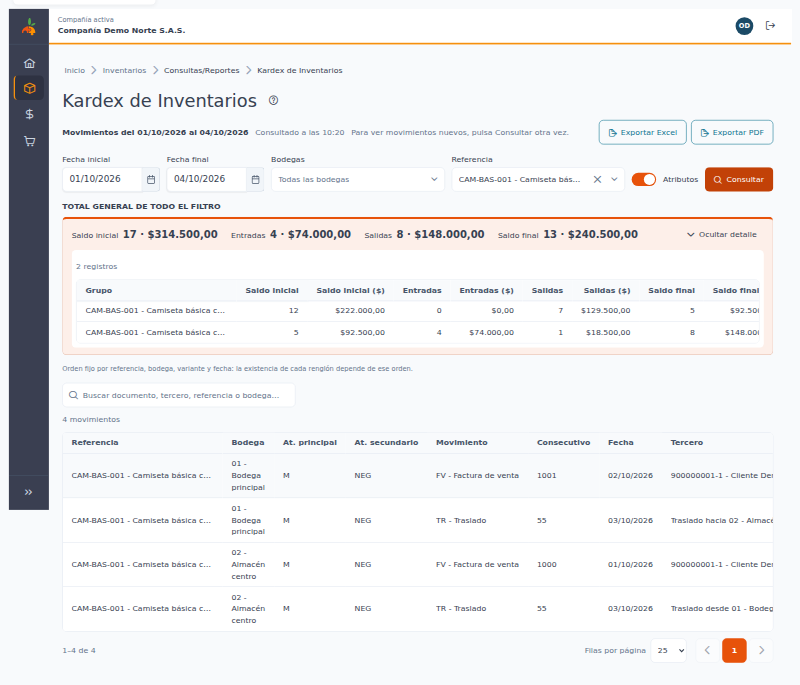
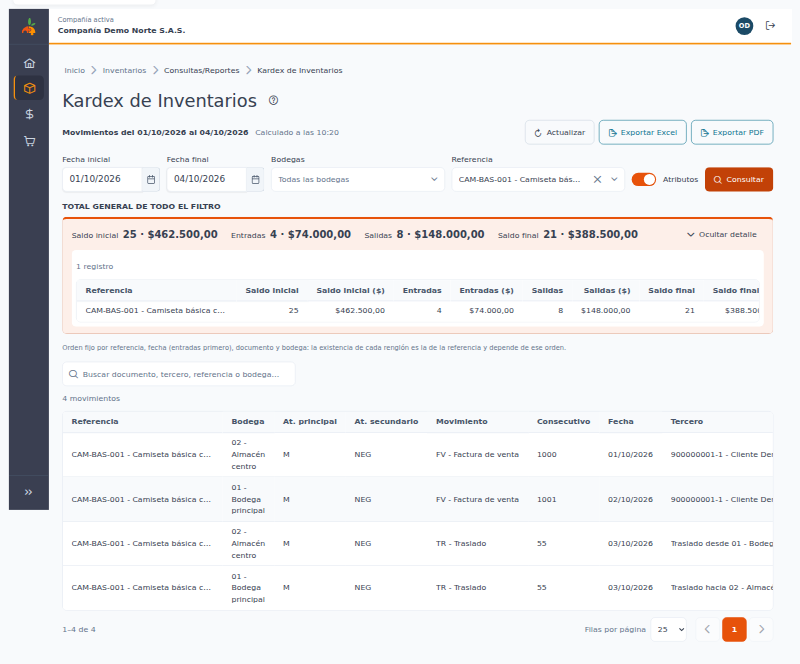
docs(inventarios): manual del Kardex reescrito para la función V2 (cálculo en segundo plano, saldo por referencia) con capturas nuevas
Claude-Session: https://claude.ai/code/session_017N4HDywEAusCCWDS58g4eW

diff --git a/v2026/inventarios/consultas/kardex-inventarios.md b/v2026/inventarios/consultas/kardex-inventarios.md
@@ -16,9 +16,11 @@
 
 ## 📋 Descripción
 
-Esta consulta muestra **cada entrada y cada salida de inventario** de un **periodo**, con el **saldo inicial**, la **existencia** que queda después de cada movimiento (en cantidad y en pesos) y los totales. Es de **solo lectura**: no crea ni cambia información. Puede **consultar, buscar, exportar a Excel y exportar a PDF**.
+Esta consulta muestra **cada entrada y cada salida de inventario** de un **periodo**, con la **existencia** que queda después de cada movimiento (en cantidad y en pesos), el **costo promedio** y los totales. Es de **solo lectura**: no crea ni cambia información. Puede **consultar, buscar, exportar a Excel y exportar a PDF**.
 
-El saldo se lleva **por referencia y bodega** (y por variante cuando consulta con atributos): cada bodega tiene su propia existencia, aunque consulte varias a la vez.
+La existencia se lleva **por referencia**: suma **todas las bodegas y todas las variantes** (talla, color…) de esa referencia. Aunque consulte una sola bodega, la existencia que ve en cada renglón es la de la referencia completa (ver *Leer el resultado*).
+
+En compañías con mucha información el kardex se **calcula en segundo plano** y se le avisa por la campana cuando está listo (ver *Cálculo en segundo plano*).
 
 > 📘 La paginación y la ayuda funcionan como en las demás tablas: ver [Manejo general de la información](../../Generales/manejo-general-informacion.md). A diferencia de otras tablas, aquí **no se puede ordenar por columna** (ver *Leer el resultado*).
 
@@ -50,7 +52,8 @@ Al entrar, la pantalla no muestra datos: elija los filtros y pulse **Consultar**
 |----------|----------------|
 | **?** (junto al título) | Abre esta ayuda en un panel lateral. |
 | **Movimientos del … al …** | El periodo al que corresponde lo que está viendo. |
-| **Consultado a las HH:MM** | La hora en que se hizo la consulta. Para ver movimientos registrados después, pulse **Consultar** otra vez. |
+| **Calculado a las HH:MM** | La hora en que se calculó el kardex que ve. Los movimientos registrados después no aparecen hasta que pulse **Actualizar**. |
+| **Actualizar** | Vuelve a calcular el kardex con los movimientos registrados hasta ahora. Está deshabilitado mientras no haya resultado o mientras se calcula. |
 | **Exportar Excel** / **Exportar PDF** | Descargan lo que cumple los filtros y la búsqueda. Están deshabilitados mientras no haya resultados. |
 | **Fecha inicial** / **Fecha final** | Por defecto, del **primer día del mes** a **hoy**. La fecha final no puede ser futura y el periodo no puede superar **12 meses**. |
 | **Bodegas** | Escriba para buscar por código o nombre y marque **una o varias** (hasta 50). Cada bodega elegida aparece como una etiqueta que puede quitar; **Quitar todos** las borra. Vacío significa **todas las bodegas**. |
@@ -62,9 +65,17 @@ El botón **?** abre este manual sin salir de la consulta:
 
 ![Ayuda en el panel lateral](../recursos/img/kardex-inventarios/17-ayuda.png)
 
+### Elegir varias bodegas
+
 ![Varias bodegas](../recursos/img/kardex-inventarios/04-varias-bodegas.png)
 
+Con varias bodegas elegidas verá los movimientos de todas ellas. Recuerde que la existencia de cada renglón es la de la **referencia completa**, no la de cada bodega.
+
+### Elegir una referencia
+
 ![Filtrar por una referencia, incluso inactiva](../recursos/img/kardex-inventarios/05-por-referencia.png)
+
+Filtrar por una referencia suele hacer el resultado más pequeño y más fácil de revisar; también ayuda cuando el periodo es muy grande (ver *Resultado demasiado grande*).
 
 ### Fechas que no se aceptan
 
@@ -85,30 +96,33 @@ El campo marca el error y no se consulta cuando:
 
 ![Resultado con atributos](../recursos/img/kardex-inventarios/02-con-atributos.png)
 
-1. **Panel de totales (sobre la tabla):** el título **TOTAL GENERAL de todo el filtro** muestra cuatro cifras de **todo** lo consultado, no solo de la página que ve, cada una en cantidad · pesos: **Saldo inicial**, **Entradas**, **Salidas** y **Saldo final**. Debajo, la tabla plegable **Totales de los grupos de esta página** trae los mismos cuatro totales para cada grupo (referencia · bodega, y la variante si consulta con atributos) que aparece en la página; esos totales son los del grupo **completo**, aunque parte de sus movimientos esté en otra página. Puede plegar ese detalle y la pantalla recuerda cómo lo dejó.
-2. **Tabla de movimientos:** Referencia, Bodega, At. principal y At. secundario (solo con atributos), Movimiento, Consecutivo, Fecha, Tercero, Entradas, Entradas ($), Salidas, Salidas ($), Existencia y Existencia ($). Puede elegir 10, 25, 50 o 100 filas por página (por defecto 25).
-3. **Existencia:** es el saldo **después** de ese movimiento, para esa referencia en esa bodega (y esa variante). Empieza en el saldo que había el día anterior a la fecha inicial y suma entradas y resta salidas renglón por renglón.
-4. **Orden fijo:** los renglones salen por referencia, bodega, variante y fecha (las entradas de un mismo día antes que las salidas). **No se puede ordenar por columna**, porque la existencia de cada renglón depende de ese orden.
-5. **Página que continúa:** la existencia sigue de una página a la siguiente; no vuelve a empezar al cambiar de página.
+1. **Panel de totales (sobre la tabla):** el título **TOTAL GENERAL de todo el filtro** muestra cuatro cifras de **todo** lo consultado, no solo de la página que ve, cada una en cantidad · pesos: **Saldo inicial**, **Entradas**, **Salidas** y **Saldo final**. Debajo, la tabla plegable **Totales de los grupos de esta página** trae los mismos cuatro totales para cada **referencia** que aparece en la página; esos totales son los de la referencia **completa**, aunque parte de sus movimientos esté en otra página. Puede plegar ese detalle y la pantalla recuerda cómo lo dejó.
+2. **Tabla de movimientos:** Referencia, Bodega, At. principal y At. secundario (solo con atributos), Movimiento, Consecutivo, Fecha, Tercero, Entradas, Entradas ($), Salidas, Salidas ($), **Costo promedio**, Existencia y Existencia ($). Puede elegir 10, 25, 50 o 100 filas por página (por defecto 25).
+3. **Existencia:** es el saldo de la **referencia** (todas sus bodegas y variantes) **después** de ese movimiento. Empieza en la existencia que tenía la referencia antes de la fecha inicial y suma entradas y resta salidas renglón por renglón. La aplicación calcula este saldo corrido sobre todos los movimientos de la referencia en el periodo.
+4. **Con filtro de bodegas, el saldo es el de la referencia completa.** Si elige solo la bodega 02, cada renglón muestra la existencia de la referencia en **todas** las bodegas, no la que quedó en la bodega 02. Por eso la existencia de un renglón puede no coincidir con lo que sumaría solo lo visible. Para ver cuánto hay en cada bodega use la consulta [Inventario por bodega](inventario-por-bodega.md).
+5. **Costo promedio:** es el costo promedio móvil de la referencia en ese renglón.
+6. **Orden fijo:** los renglones salen por referencia, fecha (las entradas de un mismo día antes que las salidas), documento y bodega. **No se puede ordenar por columna**, porque la existencia de cada renglón depende de ese orden.
+7. **Página que continúa:** la existencia sigue de una página a la siguiente; no vuelve a empezar al cambiar de página.
 
 ![La existencia continúa en la página siguiente](../recursos/img/kardex-inventarios/10-pagina-que-continua.png)
 
-6. Las cantidades se muestran hasta con 4 decimales y los valores con 2. Las existencias **negativas** se muestran con signo **−**: indican que se sacó más de lo que había registrado y conviene revisarlas. Si una existencia llega a 0, el saldo **continúa desde 0** con el siguiente movimiento.
+8. Las cantidades se muestran hasta con 4 decimales y los valores con 2. Las existencias **negativas** se muestran con signo **−**: indican que se sacó más de lo que había registrado y conviene revisarlas.
 
 ![Existencia negativa](../recursos/img/kardex-inventarios/08-saldo-negativo.png)
 
-7. **En el celular:** cada renglón se muestra como una tarjeta con todas sus etiquetas, y el panel de totales queda apilado arriba.
+9. **En el celular:** cada renglón se muestra como una tarjeta con todas sus etiquetas, y el panel de totales queda apilado arriba.
 
 ![Vista en el celular](../recursos/img/kardex-inventarios/16-movil.png)
 
-> ⚠ El **saldo** total suma unidades de medida distintas (unidades, metros, kilos…), por eso es una referencia de volumen y no una cifra contable. Para comparar valores use las cifras en **pesos**.
+> ⚠ La existencia suma unidades de medida distintas (unidades, metros, kilos…), por eso es una referencia de volumen y no una cifra contable. Para comparar valores use las cifras en **pesos**.
 
 ---
 
 ## 💲 Cómo se calcula el valor
 
-- **Entradas ($) y Salidas ($):** cantidad del movimiento × **costo con el que quedó registrada esa línea** del documento.
-- **Saldo inicial ($):** la suma de los valores de todos los movimientos anteriores a la fecha inicial.
+- **Entradas ($) y Salidas ($):** el valor de cada línea del movimiento, tal como quedó registrado en el documento.
+- **Costo promedio:** el costo promedio móvil de la referencia en ese renglón.
+- **Saldo inicial ($):** el valor de la existencia que tenía la referencia antes de la fecha inicial.
 - **Existencia ($):** saldo inicial ($) + entradas ($) − salidas ($), renglón por renglón.
 
 Es la misma cifra en la pantalla, en el Excel y en el PDF.
@@ -121,7 +135,7 @@ Un traslado entre bodegas aparece en **dos renglones**: la **salida** en la bode
 
 ![Traslado entre bodegas](../recursos/img/kardex-inventarios/06-traslado.png)
 
-Si consulta solo una de las dos bodegas, verá solo el lado del traslado que le corresponde.
+Como la existencia es la de la referencia completa, un traslado entre dos bodegas **no cambia** la existencia total: sale de una y entra en la otra. Si consulta solo una de las dos bodegas, verá solo el lado del traslado que le corresponde; en ese caso, si la pantalla no puede determinar la otra bodega, mostrará el tercero normal del documento.
 
 ---
 
@@ -131,11 +145,24 @@ Los documentos **anulados no aparecen** en el kardex y **no suman** en las exist
 
 ---
 
-## 📌 Referencias con saldo y sin movimientos en el periodo
+## 📌 Referencias sin movimientos en el periodo
 
-Si una referencia tiene saldo en una bodega pero **no tuvo movimientos** en el periodo, aparece con un solo renglón **"Saldo inicial (sin movimientos en el periodo)"**: con la fecha inicial, sin documento ni tercero, entradas y salidas en 0 y la existencia igual al saldo. Ese saldo **sí suma** en el TOTAL GENERAL. Las referencias sin saldo y sin movimientos no aparecen.
+Las referencias que **no tuvieron movimientos** en el periodo **no aparecen**, aunque tengan existencia: no hay un renglón de saldo para ellas. Si busca una referencia y no la ve, puede ser porque no se movió en esas fechas; para ver cuánto hay use [Inventario por bodega](inventario-por-bodega.md).
 
-![Saldo sin movimientos](../recursos/img/kardex-inventarios/07-saldo-sin-movimientos.png)
+Si ninguna referencia tuvo movimientos, verá "No hay movimientos de inventario en el periodo para estos filtros", con la nota "Las referencias sin movimientos en el periodo no aparecen". Los exportes quedan deshabilitados.
+
+![Sin movimientos](../recursos/img/kardex-inventarios/13-sin-movimientos.png)
+
+---
+
+## ⚠ Líneas excluidas y fechas incompletas
+
+La información de origen viene del sistema anterior y algunos registros están **incompletos**. El kardex hace lo siguiente con ellos:
+
+- **Líneas con datos incompletos:** si a una línea de un documento le falta información del legado (el **tercero**, los **atributos** o el **grupo** de la referencia), esa línea **no aparece** en la tabla ni suma en las entradas, salidas y totales de movimiento.
+- **Movimientos con fecha 01/01/0001:** los registros que quedaron con esa fecha vacía no pertenecen a ningún periodo, así que **no se muestran**.
+
+Por eso el **saldo inicial** de una referencia puede **no cuadrar al centavo** con la suma de lo que ve: la existencia inicial sí incluye esas líneas y esos movimientos, pero la tabla no los muestra. La diferencia suele ser pequeña. Si necesita revisarla, avise a soporte con la referencia y el periodo.
 
 ---
 
@@ -145,12 +172,12 @@ El interruptor **Atributos** cambia el nivel de detalle:
 
 | Opción | Qué ve |
 |--------|--------|
-| **Con atributos** (activado) | Un renglón por **línea** de documento y la existencia se lleva por **variante**: referencia + bodega + atributo principal + atributo secundario (por ejemplo, talla y color). |
-| **Sin atributos** (desactivado) | Un renglón por **documento, referencia y bodega**, sumando las variantes; la existencia se lleva por **referencia y bodega**. Las columnas de atributos no aparecen. |
+| **Con atributos** (activado) | Un renglón por **línea** de documento, con la variante (atributo principal y secundario, por ejemplo talla y color). La existencia sigue siendo la de la referencia. |
+| **Sin atributos** (desactivado) | Un renglón por **documento, referencia y bodega**, sumando las variantes. Las columnas de atributos no aparecen. |
 
 ![Sin atributos](../recursos/img/kardex-inventarios/03-sin-atributos.png)
 
-Al cambiar el interruptor, pulse **Consultar** para ver el resultado en el nuevo modo.
+Al cambiar el interruptor, pulse **Consultar** para ver el resultado en el nuevo modo. La existencia inicial de la referencia se cuenta **una sola vez**, con o sin atributos.
 
 ---
 
@@ -160,20 +187,50 @@ Escriba en **Buscar documento, tercero, referencia o bodega…**. La búsqueda e
 
 ![Búsqueda](../recursos/img/kardex-inventarios/09-busqueda.png)
 
-La búsqueda **solo oculta renglones; no cambia la existencia**: cada renglón que queda visible muestra la existencia real de su grupo. Con una búsqueda aplicada, el panel lo indica: **entradas y salidas** suman solo los movimientos encontrados, y el **saldo inicial y el saldo final** son los reales de cada grupo. Los archivos exportados también respetan la búsqueda.
+La búsqueda **solo oculta renglones; no cambia la existencia**: cada renglón que queda visible muestra la existencia real de su referencia. Con una búsqueda aplicada, el panel lo indica: **entradas y salidas** suman solo los movimientos encontrados, y el **saldo inicial y el saldo final** son los reales de cada referencia. Los archivos exportados también respetan la búsqueda.
 
 Si nada coincide verá "Sin resultados para «…»" con el botón **Limpiar búsqueda**, y la exportación queda deshabilitada.
 
 ---
 
+## ⏳ Cálculo en segundo plano
+
+Para obtener la existencia de cada referencia, el kardex revisa el historial de movimientos de la compañía hasta la fecha final. En compañías pequeñas el resultado aparece de inmediato. En compañías **grandes** el cálculo puede tardar **varios minutos**, y se hace en segundo plano:
+
+1. Al pulsar **Consultar** verá "Calculando el kardex del … al …; puede tardar varios minutos". Los filtros siguen visibles, pero **Consultar** y **Actualizar** quedan deshabilitados mientras se calcula.
+2. Puede **seguir trabajando** en otras pantallas: cuando termine recibirá en la **campana** el aviso "Kardex listo" con un enlace a la pantalla. Si falla, el aviso lo indica y puede volver a intentarlo.
+3. Al terminar, la pantalla se llena sola y la banda muestra **Calculado a las HH:MM**.
+
+![Calculando en segundo plano](../recursos/img/kardex-inventarios/18-calculando.png)
+
+Una vez calculado, el resultado se **conserva unos 15 minutos**: mientras tanto, cambiar de página, buscar, filtrar bodegas o exportar es inmediato y no vuelve a calcular. Si pasa ese tiempo, o se reinició el servicio, la pantalla **vuelve a calcular sola** y la banda muestra la hora nueva.
+
+![Calculado a las HH:MM y botón Actualizar](../recursos/img/kardex-inventarios/19-calculado-actualizar.png)
+
+Para incluir los movimientos registrados **después** de la hora que indica la banda, pulse **Actualizar**: descarta el resultado guardado y calcula de nuevo (puede volver a tardar varios minutos en compañías grandes).
+
+### Resultado demasiado grande
+
+Si el periodo tiene más movimientos de los que se pueden calcular, verá "El resultado es demasiado grande" con el máximo permitido. **Acorte el periodo o elija una referencia** y consulte de nuevo. Este mensaje no tiene **Reintentar**, porque repetir la misma consulta daría el mismo resultado. Mientras tanto la exportación está deshabilitada.
+
+![Resultado demasiado grande](../recursos/img/kardex-inventarios/20-demasiado-grande.png)
+
+### El kardex no está disponible
+
+Si ve "El kardex no está disponible por ahora", no se pudo calcular el kardex de esta compañía. Pulse **Reintentar** más tarde; si sigue igual, avise a soporte. Las demás consultas del sistema siguen funcionando.
+
+![El kardex no está disponible](../recursos/img/kardex-inventarios/21-fuente-no-disponible.png)
+
+---
+
 ## 📤 Exportar a Excel y a PDF
 
-Los botones **Exportar Excel** y **Exportar PDF** (solo con permiso **Exportar**) descargan un archivo con **los mismos filtros, la misma búsqueda y el mismo orden** que tiene en pantalla, y **todas las filas** (no solo la página visible).
+Los botones **Exportar Excel** y **Exportar PDF** (solo con permiso **Exportar**) descargan un archivo con **los mismos filtros, la misma búsqueda y el mismo orden** que tiene en pantalla, y **todas las filas** (no solo la página visible). Se arman con el resultado ya calculado: si el kardex aún se está calculando, espere a que termine.
 
 ![Exportando a Excel](../recursos/img/kardex-inventarios/14-exportar-excel.png)
 
 - **Encabezado:** datos de la compañía, el título "Kardex de Inventarios", la **fecha inicial y la fecha final**, las bodegas (o "Todas"), la referencia (o "Todas"), si se consultó con atributos, la búsqueda, la fecha y hora de generación y el usuario que lo generó.
-- **Contenido:** las mismas columnas de la pantalla, una fila **TOTAL** al final de cada grupo y la fila **TOTAL GENERAL**. En Excel los números quedan como números, listos para sumar o filtrar. El PDF sale en hoja carta horizontal y numera las páginas ("Página X de Y").
+- **Contenido:** las mismas columnas de la pantalla, una fila **TOTAL** al final de cada referencia y la fila **TOTAL GENERAL**. En Excel los números quedan como números, listos para sumar o filtrar. El PDF sale en hoja carta horizontal y numera las páginas ("Página X de Y").
 - **Nombre del archivo:** `kardex-inventarios_` seguido de la fecha inicial y la fecha final, por ejemplo `kardex-inventarios_2026-10-01_2026-10-04.xlsx` o `.pdf`.
 
 | Formato | Máximo de movimientos |
@@ -195,26 +252,35 @@ Si compara con el Kardex de la versión anterior, puede ver cifras distintas. **
 
 | Tema | Antes | Ahora |
 |------|-------|-------|
-| **Saldo con varias bodegas** | El saldo se llevaba por referencia y tomaba el saldo inicial de la primera bodega para todas; con varias bodegas la existencia salía mal. | Cada **referencia + bodega** (y variante, con atributos) tiene su propio saldo inicial y su propia existencia. |
-| **Orden** | Mezclaba las bodegas dentro de una misma referencia. | Referencia, bodega, variante y fecha. |
-| **Existencia que llegaba a 0** | El saldo se reiniciaba con el saldo inicial. | Continúa desde 0. |
-| **Valor de la existencia** | El valor en pesos arrancaba en 0 en pantalla y se sumaba varias veces en Excel; sin atributos se multiplicaba por el número de variantes. | Valor = cantidad × costo de cada línea, con el saldo inicial en pesos; igual en pantalla, Excel y PDF. |
+| **Saldo inicial y existencia** | Se tomaba del primer renglón visible, y se reiniciaba si la existencia llegaba a 0. | La existencia inicial es la de la **referencia** (todas las bodegas y variantes) antes de la fecha inicial; el saldo corrido sigue desde ahí y **continúa desde 0** si llega a 0. |
+| **Con filtro de bodegas** | La existencia dependía de lo visible. | La existencia es siempre la de la **referencia completa**, no la de cada bodega. |
+| **Costo** | No se mostraba. | Columna **Costo promedio** (promedio móvil) en cada renglón. |
+| **Orden** | Sin desempate; podía mezclar renglones. | Referencia, fecha (entradas primero), documento y bodega. |
+| **Valor de la existencia** | El valor en pesos arrancaba en 0 en pantalla y se sumaba varias veces en Excel; sin atributos se multiplicaba por el número de variantes. | Valor de cada línea con el saldo inicial en pesos; igual en pantalla, Excel y PDF; el saldo inicial se cuenta una vez. |
 | **TOTAL GENERAL** | Omitía la última referencia y algunos totales de grupo. | Se calcula sobre **todo** el filtro. |
-| **Referencias con saldo y sin movimientos** | No aparecían. | Aparecen con el renglón de saldo y suman en el total. |
+| **Referencias sin movimientos** | No aparecían. | Siguen sin aparecer (no hay renglón de saldo). |
+| **Datos incompletos del legado** | Algunas líneas se perdían sin explicación. | Siguen excluidas, pero esta ayuda explica por qué el saldo inicial puede no cuadrar (ver *Líneas excluidas y fechas incompletas*). |
+| **Tiempo de respuesta** | La pantalla podía quedarse esperando más de 40 minutos. | En compañías grandes se calcula en segundo plano, con aviso por la campana, "Calculado a las…" y **Actualizar**. |
 | **Periodo** | Sin límite; por defecto, el último mes. | Máximo **12 meses**; por defecto, del primer día del mes a hoy. No acepta fechas futuras. |
 | **Filtro por referencia** | No existía. | Opcional, incluidas las referencias inactivas. |
 | **Exportes** | Podían traer la consulta de otro usuario que consultaba al tiempo, y el encabezado no tenía la fecha inicial. | Cada archivo se arma con **sus propios filtros**, la búsqueda y el orden de pantalla, y muestra la fecha inicial y final. |
 | **Permisos** | Bastaba con ingresar al sistema. | Se necesita **Consultar** para ver y **Exportar** para descargar. |
 
-Además, el kardex de ahora deja explícitas dos reglas: los **traslados** se ven en dos renglones, uno en cada bodega y con la otra bodega en la columna Tercero (ver *Traslados*), y los **documentos anulados** no aparecen ni suman (ver *Documentos anulados*).
-
 ---
 
 ## ❓ Preguntas frecuentes
 
-**¿Por qué no puedo consultar más de 12 meses?** Para que la consulta responda rápido. Divida el periodo en partes de hasta 12 meses.
+**¿Por qué no puedo consultar más de 12 meses?** Para que la consulta responda en un tiempo razonable. Divida el periodo en partes de hasta 12 meses.
 
-**¿Por qué no veo los movimientos que acabo de registrar?** La consulta muestra lo que había a la hora indicada en "Consultado a las…". Pulse **Consultar** otra vez.
+**¿Por qué dice "Calculando…" y tarda?** Su compañía tiene mucho historial y el kardex se calcula en segundo plano. Puede seguir trabajando: la campana le avisa cuando esté listo.
+
+**¿Por qué no veo los movimientos que acabo de registrar?** La consulta muestra lo que había a la hora indicada en "Calculado a las…". Pulse **Actualizar**.
+
+**¿Por qué la existencia no es la de la bodega que elegí?** La existencia del kardex es la de la referencia en todas las bodegas. Para la existencia por bodega use [Inventario por bodega](inventario-por-bodega.md).
+
+**¿Por qué no aparece una referencia que sé que tiene existencia?** Las referencias sin movimientos en el periodo no aparecen.
+
+**¿Por qué el saldo inicial no cuadra al centavo con lo que veo?** Puede haber líneas de documentos con datos incompletos del legado o movimientos con fecha 01/01/0001 que cuentan en la existencia pero no se muestran (ver *Líneas excluidas y fechas incompletas*).
 
 **¿Por qué no puedo ordenar por columna?** La existencia de cada renglón depende del orden; si se cambiara, el saldo dejaría de tener sentido.
 
@@ -223,10 +289,6 @@ Además, el kardex de ahora deja explícitas dos reglas: los **traslados** se ve
 **¿Por qué no aparece un documento que anulé?** Los documentos anulados no se muestran ni suman.
 
 **¿Por qué no veo los botones de exportar?** Su usuario no tiene el permiso **Exportar** en esta opción. Pídalo al administrador.
-
-**Me aparece "No hay movimientos ni saldos de inventario en el periodo para estos filtros".** Pruebe con otro periodo, otras bodegas u otra referencia.
-
-![Sin movimientos](../recursos/img/kardex-inventarios/13-sin-movimientos.png)
 
 **Me aparece "No se pudo consultar el kardex".** Pulse **Reintentar**; sus filtros se conservan. Si persiste, avise a soporte.
 
